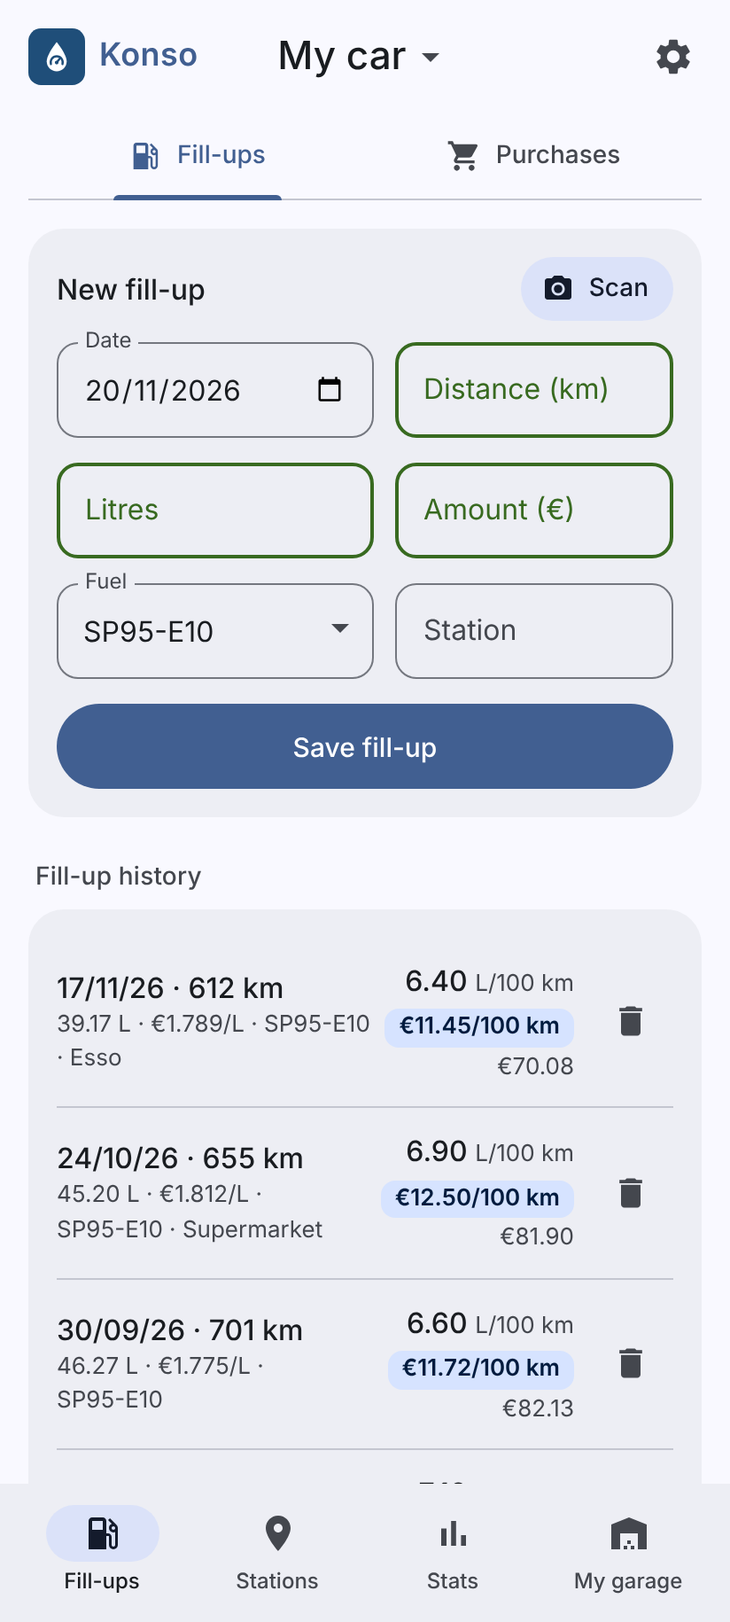
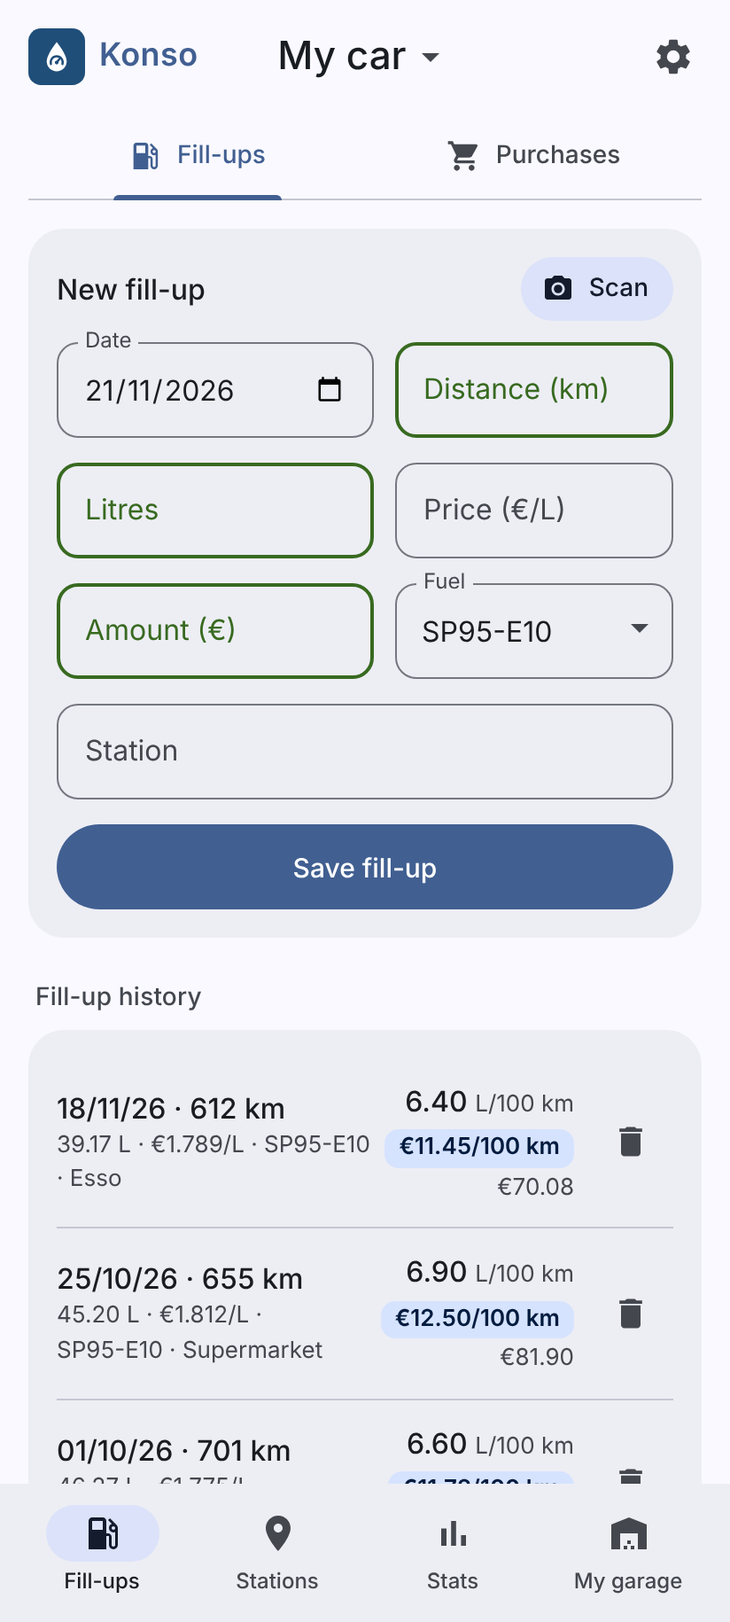
Version 2.20: price per litre field, guided tour before the folder [release] (#35)
- Fill-up form: new price per litre field (#fp); with two of litres / price /
  amount the third is worked out (fillThird(), fillValue() in app.js); the
  receipt scan fills the price too. Stored data unchanged.
- First launch: the guided tour comes before the backup folder choice (#34).
- Texts and help in the 10 languages, screenshots regenerated.
- versionCode 31, versionName 2.20, NEWS 2.20, changelogs/31.txt.

Claude-Session: https://claude.ai/code/session_01Fn4kayjuzW8mUexRkg5oAN

diff --git a/app/src/main/assets/www/i18n.js b/app/src/main/assets/www/i18n.js
@@ -80,6 +80,8 @@
     news_new: "Nouveau",
     news_better: "Amélioré",
     news_fix: "Corrigé",
+    news_220_1: "Nouveau champ Prix au litre : avec deux des trois (litres, prix, montant), le troisième se calcule. Le scan du ticket le remplit aussi.",
+    news_220_2: "Au premier lancement, la visite guidée arrive tout de suite, avant le choix du dossier de sauvegarde.",
     news_219_1: "Les achats se notent maintenant dans l'onglet Pleins, à côté des pleins.",
     news_219_2: "Mon garage : touche une voiture pour la suivre partout, son crayon pour la modifier.",
     news_219_3: "Le calcul « Achat voiture & amortissement » est maintenant dans le Bilan.",
@@ -140,7 +142,7 @@
     car_need_name: "Donne un nom à la voiture", car_dup: "Une voiture porte déjà ce nom",
     new_fill: "Nouveau plein", scan_btn: "Scanner un ticket", scan_short: "Scanner",
     scan_hint: "Lecture sur le téléphone, sans internet. Vérifie toujours les valeurs.",
-    date: "Date", distance: "Distance ({du})", litres: "Litres", amount: "Montant ({cs})",
+    date: "Date", distance: "Distance ({du})", litres: "Litres", amount: "Montant ({cs})", unit_price: "Prix ({cs}/{vu})",
     fuel: "Carburant", station: "Station",
     k_l100: "{cu}", k_e100: "{cs} / 100 {du}", k_el: "{cs} / {vu}",
     add_fill: "Enregistrer le plein",
@@ -203,7 +205,7 @@
     need_fuel: "Choisis le carburant",
     help_title: "Comment ça marche ?",
     help_q1: "Saisir un plein",
-    help_a1: "Fais le plein à ras à chaque fois, puis indique la <b>distance parcourue depuis le plein précédent</b>, les litres et le montant. Astuce : remets le compteur journalier à zéro à chaque plein. La consommation, le coût aux 100 km et le prix au litre se calculent tout seuls. Les champs encore vides (distance, litres, montant) sont entourés en vert. Un champ oublié passe en rouge quand tu enregistres.",
+    help_a1: "Fais le plein à ras à chaque fois, puis indique la <b>distance parcourue depuis le plein précédent</b>, les litres et le montant. Tu peux aussi donner le <b>prix au litre</b> : avec deux des trois (litres, prix, montant), le troisième se calcule. Astuce : remets le compteur journalier à zéro à chaque plein. La consommation, le coût aux 100 km et le prix au litre se calculent tout seuls. Les champs encore vides (distance, litres, montant) sont entourés en vert. Un champ oublié passe en rouge quand tu enregistres.",
     help_q2: "Carburant présélectionné",
     help_a2: "Le carburant proposé est celui de ton <b>dernier plein</b> avec cette voiture : pas besoin de le choisir à chaque fois. Pour une voiture sans plein, c'est son <b>carburant habituel</b> (modifiable dans Mon garage).",
     help_q3: "Scanner un ticket",
@@ -363,6 +365,8 @@
     news_new: "New",
     news_better: "Improved",
     news_fix: "Fixed",
+    news_220_1: "New price per litre field: with two of the three (litres, price, amount), the third is worked out. Receipt scanning fills it too.",
+    news_220_2: "At first launch, the guided tour comes right away, before choosing the backup folder.",
     news_219_1: "Purchases are now noted in the Fill-ups tab, next to the fill-ups.",
     news_219_2: "My garage: tap a car to follow it everywhere, its pencil to edit it.",
     news_219_3: "The “Car purchase & payback” calculation is now in Stats.",
@@ -423,7 +427,7 @@
     car_need_name: "Give the car a name", car_dup: "A car with this name already exists",
     new_fill: "New fill-up", scan_btn: "Scan a receipt", scan_short: "Scan",
     scan_hint: "Read on your phone, no internet. Always check the values.",
-    date: "Date", distance: "Distance ({du})", litres: "Litres", amount: "Amount ({cs})",
+    date: "Date", distance: "Distance ({du})", litres: "Litres", amount: "Amount ({cs})", unit_price: "Price ({cs}/{vu})",
     fuel: "Fuel", station: "Station",
     k_l100: "{cu}", k_e100: "{cs} / 100 {du}", k_el: "{cs} / {vu}",
     add_fill: "Save fill-up",
@@ -486,7 +490,7 @@
     need_fuel: "Choose the fuel type",
     help_title: "How it works",
     help_q1: "Adding a fill-up",
-    help_a1: "Fill the tank to the brim each time, then enter the <b>distance driven since the previous fill-up</b>, the litres and the amount. Tip: reset the trip meter at each fill-up. Consumption, cost per 100 km and price per litre are calculated automatically. Fields still empty (distance, litres, amount) are outlined in green. A missing field turns red when you save.",
+    help_a1: "Fill the tank to the brim each time, then enter the <b>distance driven since the previous fill-up</b>, the litres and the amount. You can also enter the <b>price per litre</b>: with two of the three (litres, price, amount), the third is worked out. Tip: reset the trip meter at each fill-up. Consumption, cost per 100 km and price per litre are calculated automatically. Fields still empty (distance, litres, amount) are outlined in green. A missing field turns red when you save.",
     help_q2: "Preselected fuel",
     help_a2: "The fuel offered is the one from your <b>last fill-up</b> with this car, so you don't have to pick it every time. For a car with no fill-up yet, it's the car's <b>usual fuel</b> (change it in My garage).",
     help_q3: "Scanning a receipt",
@@ -646,6 +650,8 @@
     news_new: "Nuevo",
     news_better: "Mejorado",
     news_fix: "Corregido",
+    news_220_1: "Nuevo campo Precio por litro: con dos de los tres (litros, precio, importe), el tercero se calcula. El escaneo del ticket también lo rellena.",
+    news_220_2: "En el primer inicio, la visita guiada llega enseguida, antes de elegir la carpeta de copia.",
     news_219_1: "Las compras se anotan ahora en la pestaña Repostajes, junto a los repostajes.",
     news_219_2: "Mi garaje: toca un coche para seguirlo en todas partes, su lápiz para editarlo.",
     news_219_3: "El cálculo «Compra de coche y amortización» está ahora en el Resumen.",
@@ -706,7 +712,7 @@
     car_need_name: "Ponle un nombre al coche", car_dup: "Ya existe un coche con ese nombre",
     new_fill: "Nuevo repostaje", scan_btn: "Escanear un ticket", scan_short: "Escanear",
     scan_hint: "Lectura en el teléfono, sin internet. Comprueba siempre los valores.",
-    date: "Fecha", distance: "Distancia ({du})", litres: "Litros", amount: "Importe ({cs})",
+    date: "Fecha", distance: "Distancia ({du})", litres: "Litros", amount: "Importe ({cs})", unit_price: "Precio ({cs}/{vu})",
     fuel: "Combustible", station: "Gasolinera",
     k_l100: "{cu}", k_e100: "{cs} / 100 {du}", k_el: "{cs} / {vu}",
     add_fill: "Guardar el repostaje",
@@ -769,7 +775,7 @@
     need_fuel: "Elige el combustible",
     help_title: "¿Cómo funciona?",
     help_q1: "Registrar un repostaje",
-    help_a1: "Llena el depósito hasta arriba cada vez e indica la <b>distancia recorrida desde el repostaje anterior</b>, los litros y el importe. Consejo: pon a cero el cuentakilómetros parcial en cada repostaje. El consumo, el coste por 100 km y el precio por litro se calculan solos. Los campos aún vacíos (distancia, litros, importe) aparecen rodeados en verde. Un campo olvidado se vuelve rojo al guardar.",
+    help_a1: "Llena el depósito hasta arriba cada vez e indica la <b>distancia recorrida desde el repostaje anterior</b>, los litros y el importe. También puedes indicar el <b>precio por litro</b>: con dos de los tres (litros, precio, importe), el tercero se calcula. Consejo: pon a cero el cuentakilómetros parcial en cada repostaje. El consumo, el coste por 100 km y el precio por litro se calculan solos. Los campos aún vacíos (distancia, litros, importe) aparecen rodeados en verde. Un campo olvidado se vuelve rojo al guardar.",
     help_q2: "Combustible preseleccionado",
     help_a2: "El combustible propuesto es el de tu <b>último repostaje</b> con este coche: no hace falta elegirlo cada vez. Para un coche sin repostajes, es su <b>combustible habitual</b> (se cambia en Mi garaje).",
     help_q3: "Escanear un ticket",
@@ -929,6 +935,8 @@
     news_new: "Neu",
     news_better: "Verbessert",
     news_fix: "Behoben",
+    news_220_1: "Neues Feld Literpreis: Aus zwei der drei Werte (Liter, Preis, Betrag) wird der dritte berechnet. Der Belegscan füllt es auch aus.",
+    news_220_2: "Beim ersten Start kommt die Tour sofort, noch vor der Wahl des Sicherungsordners.",
     news_219_1: "Käufe trägst du jetzt im Tab Tankungen ein, neben den Tankungen.",
     news_219_2: "Meine Garage: Tippe auf ein Auto, um ihm überall zu folgen, auf seinen Stift, um es zu bearbeiten.",
     news_219_3: "Die Rechnung „Autokauf & Amortisation“ ist jetzt in der Auswertung.",
@@ -989,7 +997,7 @@
     car_need_name: "Gib dem Auto einen Namen", car_dup: "Ein Auto mit diesem Namen gibt es schon",
     new_fill: "Neue Tankung", scan_btn: "Beleg scannen", scan_short: "Scannen",
     scan_hint: "Lesen auf dem Handy, ohne Internet. Werte immer prüfen.",
-    date: "Datum", distance: "Strecke ({du})", litres: "Liter", amount: "Betrag ({cs})",
+    date: "Datum", distance: "Strecke ({du})", litres: "Liter", amount: "Betrag ({cs})", unit_price: "Preis ({cs}/{vu})",
     fuel: "Kraftstoff", station: "Tankstelle",
     k_l100: "{cu}", k_e100: "{cs} / 100 {du}", k_el: "{cs} / {vu}",
     add_fill: "Tankung speichern",
@@ -1052,7 +1060,7 @@
     need_fuel: "Kraftstoffart auswählen",
     help_title: "So funktioniert's",
     help_q1: "Tankung erfassen",
-    help_a1: "Immer bis zum Rand volltanken und die <b>seit der letzten Tankung gefahrene Strecke</b>, die Liter und den Betrag eingeben. Tipp: den Tageskilometerzähler bei jeder Tankung zurücksetzen. Verbrauch, Kosten pro 100 km und Literpreis werden automatisch berechnet. Noch leere Felder (Strecke, Liter, Betrag) sind grün umrandet. Ein vergessenes Feld wird beim Speichern rot.",
+    help_a1: "Immer bis zum Rand volltanken und die <b>seit der letzten Tankung gefahrene Strecke</b>, die Liter und den Betrag eingeben. Du kannst auch den <b>Literpreis</b> eingeben: Aus zwei der drei Werte (Liter, Preis, Betrag) wird der dritte berechnet. Tipp: den Tageskilometerzähler bei jeder Tankung zurücksetzen. Verbrauch, Kosten pro 100 km und Literpreis werden automatisch berechnet. Noch leere Felder (Strecke, Liter, Betrag) sind grün umrandet. Ein vergessenes Feld wird beim Speichern rot.",
     help_q2: "Vorausgewählte Kraftstoffart",
     help_a2: "Vorgeschlagen wird die Kraftstoffart der <b>letzten Tankung</b> dieses Autos – sie muss also nicht jedes Mal gewählt werden. Bei einem Auto ohne Tankung ist es seine <b>übliche Kraftstoffart</b> (in Meine Garage änderbar).",
     help_q3: "Beleg scannen",
@@ -1212,6 +1220,8 @@
     news_new: "Nuovo",
     news_better: "Migliorato",
     news_fix: "Corretto",
+    news_220_1: "Nuovo campo Prezzo al litro: con due dei tre (litri, prezzo, importo), il terzo si calcola. Anche la scansione dello scontrino lo compila.",
+    news_220_2: "Al primo avvio, la visita guidata arriva subito, prima della scelta della cartella di backup.",
     news_219_1: "Gli acquisti si annotano ora nella scheda Rifornimenti, accanto ai rifornimenti.",
     news_219_2: "Il mio garage: tocca un'auto per seguirla ovunque, la sua matita per modificarla.",
     news_219_3: "Il calcolo «Acquisto auto e ammortamento» è ora nel Riepilogo.",
@@ -1272,7 +1282,7 @@
     car_need_name: "Dai un nome all'auto", car_dup: "Esiste già un'auto con questo nome",
     new_fill: "Nuovo rifornimento", scan_btn: "Scansiona uno scontrino", scan_short: "Scansiona",
     scan_hint: "Lettura sul telefono, senza internet. Controlla sempre i valori.",
-    date: "Data", distance: "Distanza ({du})", litres: "Litri", amount: "Importo ({cs})",
+    date: "Data", distance: "Distanza ({du})", litres: "Litri", amount: "Importo ({cs})", unit_price: "Prezzo ({cs}/{vu})",
     fuel: "Carburante", station: "Distributore",
     k_l100: "{cu}", k_e100: "{cs} / 100 {du}", k_el: "{cs} / {vu}",
     add_fill: "Salva il rifornimento",
@@ -1335,7 +1345,7 @@
     need_fuel: "Scegli il carburante",
     help_title: "Come funziona?",
     help_q1: "Registrare un rifornimento",
-    help_a1: "Fai sempre il pieno fino all'orlo, poi indica la <b>distanza percorsa dal rifornimento precedente</b>, i litri e l'importo. Consiglio: azzera il contachilometri parziale a ogni pieno. Consumo, costo ogni 100 km e prezzo al litro si calcolano da soli. I campi ancora vuoti (distanza, litri, importo) sono evidenziati in verde. Un campo dimenticato diventa rosso quando salvi.",
+    help_a1: "Fai sempre il pieno fino all'orlo, poi indica la <b>distanza percorsa dal rifornimento precedente</b>, i litri e l'importo. Puoi anche indicare il <b>prezzo al litro</b>: con due dei tre (litri, prezzo, importo), il terzo si calcola. Consiglio: azzera il contachilometri parziale a ogni pieno. Consumo, costo ogni 100 km e prezzo al litro si calcolano da soli. I campi ancora vuoti (distanza, litri, importo) sono evidenziati in verde. Un campo dimenticato diventa rosso quando salvi.",
     help_q2: "Carburante preselezionato",
     help_a2: "Il carburante proposto è quello del tuo <b>ultimo rifornimento</b> con questa auto: non serve sceglierlo ogni volta. Per un'auto senza rifornimenti è il suo <b>carburante abituale</b> (modificabile in Il mio garage).",
     help_q3: "Scansionare uno scontrino",
@@ -1495,6 +1505,8 @@
     news_new: "Novo",
     news_better: "Melhorado",
     news_fix: "Corrigido",
+    news_220_1: "Novo campo Preço por litro: com dois dos três (litros, preço, montante), o terceiro é calculado. A digitalização do talão também o preenche.",
+    news_220_2: "No primeiro arranque, a visita guiada aparece logo, antes de escolher a pasta de cópia.",
     news_219_1: "As compras anotam-se agora no separador Abastecimentos, ao lado dos abastecimentos.",
     news_219_2: "A minha garagem: toca num carro para o seguir em todo o lado, no seu lápis para o editar.",
     news_219_3: "O cálculo «Compra de carro e amortização» está agora no Resumo.",
@@ -1555,7 +1567,7 @@
     car_need_name: "Dá um nome ao carro", car_dup: "Já existe um carro com este nome",
     new_fill: "Novo abastecimento", scan_btn: "Digitalizar um talão", scan_short: "Digitalizar",
     scan_hint: "Leitura no telemóvel, sem internet. Verifica sempre os valores.",
-    date: "Data", distance: "Distância ({du})", litres: "Litros", amount: "Montante ({cs})",
+    date: "Data", distance: "Distância ({du})", litres: "Litros", amount: "Montante ({cs})", unit_price: "Preço ({cs}/{vu})",
     fuel: "Combustível", station: "Posto",
     k_l100: "{cu}", k_e100: "{cs} / 100 {du}", k_el: "{cs} / {vu}",
     add_fill: "Guardar o abastecimento",
@@ -1618,7 +1630,7 @@
     need_fuel: "Escolhe o combustível",
     help_title: "Como funciona?",
     help_q1: "Registar um abastecimento",
-    help_a1: "Enche sempre o depósito até acima e indica a <b>distância percorrida desde o abastecimento anterior</b>, os litros e o montante. Dica: põe o conta-quilómetros parcial a zero em cada abastecimento. O consumo, o custo aos 100 km e o preço por litro são calculados automaticamente. Os campos ainda vazios (distância, litros, valor) aparecem contornados a verde. Um campo esquecido fica vermelho quando guardas.",
+    help_a1: "Enche sempre o depósito até acima e indica a <b>distância percorrida desde o abastecimento anterior</b>, os litros e o montante. Também podes indicar o <b>preço por litro</b>: com dois dos três (litros, preço, montante), o terceiro é calculado. Dica: põe o conta-quilómetros parcial a zero em cada abastecimento. O consumo, o custo aos 100 km e o preço por litro são calculados automaticamente. Os campos ainda vazios (distância, litros, valor) aparecem contornados a verde. Um campo esquecido fica vermelho quando guardas.",
     help_q2: "Combustível pré-selecionado",
     help_a2: "O combustível proposto é o do teu <b>último abastecimento</b> com este carro: não é preciso escolhê-lo de cada vez. Para um carro sem abastecimentos, é o seu <b>combustível habitual</b> (altera-se em A minha garagem).",
     help_q3: "Digitalizar um talão",
@@ -1778,6 +1790,8 @@
     news_new: "Nieuw",
     news_better: "Verbeterd",
     news_fix: "Opgelost",
+    news_220_1: "Nieuw veld Literprijs: met twee van de drie (liters, prijs, bedrag) wordt de derde berekend. Het scannen van het bonnetje vult het ook in.",
+    news_220_2: "Bij de eerste start komt de rondleiding meteen, vóór het kiezen van de back-upmap.",
     news_219_1: "Aankopen noteer je nu in het tabblad Tankbeurten, naast de tankbeurten.",
     news_219_2: "Mijn garage: tik op een auto om hem overal te volgen, op zijn potlood om hem te bewerken.",
     news_219_3: "De berekening „Auto kopen & terugverdientijd” staat nu in het Overzicht.",
@@ -1838,7 +1852,7 @@
     car_need_name: "Geef de auto een naam", car_dup: "Er bestaat al een auto met deze naam",
     new_fill: "Nieuwe tankbeurt", scan_btn: "Bonnetje scannen", scan_short: "Scannen",
     scan_hint: "Wordt op de telefoon gelezen, zonder internet. Controleer altijd de waarden.",
-    date: "Datum", distance: "Afstand ({du})", litres: "Liters", amount: "Bedrag ({cs})",
+    date: "Datum", distance: "Afstand ({du})", litres: "Liters", amount: "Bedrag ({cs})", unit_price: "Prijs ({cs}/{vu})",
     fuel: "Brandstof", station: "Tankstation",
     k_l100: "{cu}", k_e100: "{cs} / 100 {du}", k_el: "{cs} / {vu}",
     add_fill: "Tankbeurt opslaan",
@@ -1901,7 +1915,7 @@
     need_fuel: "Kies de brandstof",
     help_title: "Hoe werkt het?",
     help_q1: "Een tankbeurt invoeren",
-    help_a1: "Tank telkens helemaal vol en vul de <b>afstand sinds de vorige tankbeurt</b>, de liters en het bedrag in. Tip: zet de dagteller bij elke tankbeurt op nul. Verbruik, kosten per 100 km en literprijs worden automatisch berekend. Velden die nog leeg zijn (afstand, liters, bedrag) zijn groen omlijnd. Een vergeten veld wordt rood als je opslaat.",
+    help_a1: "Tank telkens helemaal vol en vul de <b>afstand sinds de vorige tankbeurt</b>, de liters en het bedrag in. Je kunt ook de <b>literprijs</b> invullen: met twee van de drie (liters, prijs, bedrag) wordt de derde berekend. Tip: zet de dagteller bij elke tankbeurt op nul. Verbruik, kosten per 100 km en literprijs worden automatisch berekend. Velden die nog leeg zijn (afstand, liters, bedrag) zijn groen omlijnd. Een vergeten veld wordt rood als je opslaat.",
     help_q2: "Vooraf gekozen brandstof",
     help_a2: "De voorgestelde brandstof is die van je <b>laatste tankbeurt</b> met deze auto: je hoeft hem dus niet elke keer te kiezen. Voor een auto zonder tankbeurten is het de <b>gebruikelijke brandstof</b> (te wijzigen in Mijn garage).",
     help_q3: "Een bonnetje scannen",
@@ -2061,6 +2075,8 @@
     news_new: "Nowe",
     news_better: "Ulepszone",
     news_fix: "Poprawione",
+    news_220_1: "Nowe pole Cena za litr: z dwóch z trzech wartości (litry, cena, kwota) trzecia liczy się sama. Skanowanie paragonu też je wypełnia.",
+    news_220_2: "Przy pierwszym uruchomieniu przewodnik pojawia się od razu, przed wyborem folderu kopii.",
     news_219_1: "Zakupy zapisujesz teraz na karcie Tankowania, obok tankowań.",
     news_219_2: "Mój garaż: dotknij auta, aby śledzić je wszędzie, jego ołówka, aby je edytować.",
     news_219_3: "Obliczenie „Zakup auta i zwrot kosztów” jest teraz w Podsumowaniu.",
@@ -2121,7 +2137,7 @@
     car_need_name: "Nadaj autu nazwę", car_dup: "Auto o tej nazwie już istnieje",
     new_fill: "Nowe tankowanie", scan_btn: "Zeskanuj paragon", scan_short: "Skanuj",
     scan_hint: "Odczyt na telefonie, bez internetu. Zawsze sprawdź wartości.",
-    date: "Data", distance: "Dystans ({du})", litres: "Litry", amount: "Kwota ({cs})",
+    date: "Data", distance: "Dystans ({du})", litres: "Litry", amount: "Kwota ({cs})", unit_price: "Cena ({cs}/{vu})",
     fuel: "Paliwo", station: "Stacja",
     k_l100: "{cu}", k_e100: "{cs} / 100 {du}", k_el: "{cs} / {vu}",
     add_fill: "Zapisz tankowanie",
@@ -2184,7 +2200,7 @@
     need_fuel: "Wybierz paliwo",
     help_title: "Jak to działa?",
     help_q1: "Dodawanie tankowania",
-    help_a1: "Za każdym razem tankuj do pełna i wpisz <b>dystans przejechany od poprzedniego tankowania</b>, litry i kwotę. Wskazówka: zeruj licznik dzienny przy każdym tankowaniu. Spalanie, koszt na 100 km i cena za litr liczą się same. Pola jeszcze puste (dystans, litry, kwota) są obramowane na zielono. Pominięte pole zmienia kolor na czerwony przy zapisie.",
+    help_a1: "Za każdym razem tankuj do pełna i wpisz <b>dystans przejechany od poprzedniego tankowania</b>, litry i kwotę. Możesz też podać <b>cenę za litr</b>: z dwóch z trzech wartości (litry, cena, kwota) trzecia liczy się sama. Wskazówka: zeruj licznik dzienny przy każdym tankowaniu. Spalanie, koszt na 100 km i cena za litr liczą się same. Pola jeszcze puste (dystans, litry, kwota) są obramowane na zielono. Pominięte pole zmienia kolor na czerwony przy zapisie.",
     help_q2: "Domyślnie wybrane paliwo",
     help_a2: "Proponowane jest paliwo z <b>ostatniego tankowania</b> tego auta, więc nie trzeba go wybierać za każdym razem. Dla auta bez tankowań to jego <b>zwykłe paliwo</b> (można je zmienić w zakładce Mój garaż).",
     help_q3: "Skanowanie paragonu",
@@ -2344,6 +2360,8 @@
     news_new: "Yeni",
     news_better: "İyileştirildi",
     news_fix: "Düzeltildi",
+    news_220_1: "Yeni Litre fiyatı alanı: üçünden ikisiyle (litre, fiyat, tutar) üçüncüsü hesaplanır. Fiş taraması da onu doldurur.",
+    news_220_2: "İlk açılışta rehberli tur, yedek klasörü seçilmeden hemen önce gelir.",
     news_219_1: "Alışverişler artık Yakıt alımları sekmesinde, yakıt alımlarının yanında not ediliyor.",
     news_219_2: "Garajım: bir arabayı her yerde izlemek için ona, düzenlemek için kalemine dokun.",
     news_219_3: "“Araba alımı ve amortisman” hesabı artık Özet'te.",
@@ -2404,7 +2422,7 @@
     car_need_name: "Arabaya bir ad ver", car_dup: "Bu adda bir araba zaten var",
     new_fill: "Yeni yakıt alımı", scan_btn: "Fiş tara", scan_short: "Tara",
     scan_hint: "Telefonda okunur, internet gerekmez. Değerleri her zaman kontrol et.",
-    date: "Tarih", distance: "Mesafe ({du})", litres: "Litre", amount: "Tutar ({cs})",
+    date: "Tarih", distance: "Mesafe ({du})", litres: "Litre", amount: "Tutar ({cs})", unit_price: "Fiyat ({cs}/{vu})",
     fuel: "Yakıt", station: "İstasyon",
     k_l100: "{cu}", k_e100: "{cs} / 100 {du}", k_el: "{cs} / {vu}",
     add_fill: "Yakıt alımını kaydet",
@@ -2467,7 +2485,7 @@
     need_fuel: "Yakıt türünü seç",
     help_title: "Nasıl çalışır?",
     help_q1: "Yakıt alımı ekleme",
-    help_a1: "Her seferinde depoyu tam doldur, sonra <b>önceki yakıt alımından beri gidilen mesafeyi</b>, litreyi ve tutarı gir. İpucu: her yakıt alımında günlük kilometre sayacını sıfırla. Tüketim, 100 km maliyeti ve litre fiyatı otomatik hesaplanır. Henüz boş olan alanlar (mesafe, litre, tutar) yeşil çerçevelidir. Unutulan bir alan kaydederken kırmızıya döner.",
+    help_a1: "Her seferinde depoyu tam doldur, sonra <b>önceki yakıt alımından beri gidilen mesafeyi</b>, litreyi ve tutarı gir. <b>Litre fiyatını</b> da girebilirsin: üçünden ikisiyle (litre, fiyat, tutar) üçüncüsü hesaplanır. İpucu: her yakıt alımında günlük kilometre sayacını sıfırla. Tüketim, 100 km maliyeti ve litre fiyatı otomatik hesaplanır. Henüz boş olan alanlar (mesafe, litre, tutar) yeşil çerçevelidir. Unutulan bir alan kaydederken kırmızıya döner.",
     help_q2: "Önceden seçili yakıt",
     help_a2: "Önerilen yakıt, bu arabayla yaptığın <b>son yakıt alımındaki</b> yakıttır; her seferinde seçmen gerekmez. Henüz yakıt alımı olmayan bir arabada, arabanın <b>genelde kullanılan yakıtı</b> seçilir (Garajım sekmesinden değiştirilebilir).",
     help_q3: "Fiş tarama",
@@ -2627,6 +2645,8 @@
     news_new: "Nou",
     news_better: "Îmbunătățit",
     news_fix: "Corectat",
+    news_220_1: "Câmp nou Preț pe litru: din două dintre cele trei (litri, preț, sumă), a treia se calculează. Scanarea bonului îl completează și ea.",
+    news_220_2: "La prima pornire, turul ghidat apare imediat, înainte de alegerea dosarului de salvare.",
     news_219_1: "Achizițiile se notează acum în fila Alimentări, lângă alimentări.",
     news_219_2: "Garajul meu: atinge o mașină pentru a o urmări peste tot, creionul ei pentru a o modifica.",
     news_219_3: "Calculul „Cumpărare mașină și amortizare” este acum în Rezumat.",
@@ -2687,7 +2707,7 @@
     car_need_name: "Dă un nume mașinii", car_dup: "Există deja o mașină cu acest nume",
     new_fill: "Alimentare nouă", scan_btn: "Scanează un bon", scan_short: "Scanează",
     scan_hint: "Citire pe telefon, fără internet. Verifică mereu valorile.",
-    date: "Data", distance: "Distanța ({du})", litres: "Litri", amount: "Suma ({cs})",
+    date: "Data", distance: "Distanța ({du})", litres: "Litri", amount: "Suma ({cs})", unit_price: "Preț ({cs}/{vu})",
     fuel: "Combustibil", station: "Stație",
     k_l100: "{cu}", k_e100: "{cs} / 100 {du}", k_el: "{cs} / {vu}",
     add_fill: "Salvează alimentarea",
@@ -2750,7 +2770,7 @@
     need_fuel: "Alege combustibilul",
     help_title: "Cum funcționează?",
     help_q1: "Adăugarea unei alimentări",
-    help_a1: "Fă plinul complet de fiecare dată, apoi completează <b>distanța parcursă de la alimentarea precedentă</b>, litrii și suma. Sfat: resetează contorul de parcurs la fiecare alimentare. Consumul, costul la 100 km și prețul pe litru se calculează automat. Câmpurile încă goale (distanța, litri, suma) sunt încadrate cu verde. Un câmp uitat devine roșu când salvezi.",
+    help_a1: "Fă plinul complet de fiecare dată, apoi completează <b>distanța parcursă de la alimentarea precedentă</b>, litrii și suma. Poți introduce și <b>prețul pe litru</b>: din două dintre cele trei (litri, preț, sumă), a treia se calculează. Sfat: resetează contorul de parcurs la fiecare alimentare. Consumul, costul la 100 km și prețul pe litru se calculează automat. Câmpurile încă goale (distanța, litri, suma) sunt încadrate cu verde. Un câmp uitat devine roșu când salvezi.",
     help_q2: "Combustibil preselectat",
     help_a2: "Combustibilul propus este cel de la <b>ultima alimentare</b> cu această mașină, deci nu trebuie ales de fiecare dată. Pentru o mașină fără alimentări, este <b>combustibilul obișnuit</b> al mașinii (se schimbă în Garajul meu).",
     help_q3: "Scanarea unui bon",

diff --git a/app/src/main/assets/www/app.js b/app/src/main/assets/www/app.js
@@ -1083,6 +1083,7 @@ $('sv-import').onclick = () => {
 // (news_<version>_<n> in i18n.js). Before each release, add its version at the top of NEWS with
 // its texts in the 10 languages, and its date.
 const NEWS = [
+  { v: '2.20', d: '2026-11-23', items: [['new', 'news_220_1'], ['fix', 'news_220_2']] },
   {
     v: '2.19',
     d: '2026-11-20',
@@ -1492,7 +1493,9 @@ function initScan() {
       const { best: r, bestText } = await Promise.race([work(), stalled]);
       if (r.date) $('fd').value = r.date;
       if (r.litres) $('fl').value = Math.round(vol(r.litres) * 100) / 100; // receipts are in litres
+      if (r.prix) $('fp').value = Math.round((r.prix / vol(1)) * 1000) / 1000; // per litre -> per gallon
       if (r.montant) $('fe').value = r.montant;
+      fillScanned();
       if (r.station) $('fs').value = r.station.slice(0, 80);
       const fuelOk = !!r.carburant && FUELV.includes(r.carburant);
       tried = false;
@@ -1592,6 +1595,52 @@ $('fc').onclick = () =>
     },
   });
 ['fk', 'fl', 'fe'].forEach(i => $(i).addEventListener('input', live));
+// Litres, price per litre and amount: two of them give the third, so a receipt can be typed in the
+// order it reads (e.g. litres and price, or amount and price). fillOrder: the fields of the three
+// typed by the user, the last typed last; fillAuto: the field worked out by the app ('' = none).
+const FILL3 = ['fl', 'fp', 'fe'];
+let fillOrder = [],
+  fillAuto = '';
+// Value of the field id (fl, fp or fe) worked out from the two others, rounded like a receipt:
+// 2 decimals for litres and amount, 3 for the price.
+function fillValue(id) {
+  const l = +$('fl').value,
+    p = +$('fp').value,
+    e = +$('fe').value;
+  if (id === 'fe') return Math.round(l * p * 100) / 100;
+  if (id === 'fl') return Math.round((e / p) * 100) / 100;
+  return Math.round((e / l) * 1000) / 1000;
+}
+// After the user typed in field id: the two fields typed last (with a value) give the third. When
+// fewer than two are typed, a value worked out earlier no longer holds and is emptied.
+function fillThird(id) {
+  fillOrder = fillOrder.filter(x => x !== id).concat(id);
+  if (fillAuto === id) fillAuto = '';
+  const typed = fillOrder.filter(x => +$(x).value > 0).slice(-2);
+  if (typed.length < 2) {
+    if (fillAuto) $(fillAuto).value = '';
+    fillAuto = '';
+  } else {
+    fillAuto = FILL3.find(x => !typed.includes(x));
+    fillOrder = fillOrder.filter(x => x !== fillAuto); // no longer the user's value
+    $(fillAuto).value = fillValue(fillAuto);
+  }
+  live();
+  marks();
+}
+FILL3.forEach(i => $(i).addEventListener('input', () => fillThird(i)));
+// After a receipt scan: the values read count as typed by the user, litres and amount last, so
+// correcting one of them later works out the price again (and correcting the price, the litres).
+function fillScanned() {
+  fillOrder = ['fp', 'fl', 'fe'].filter(x => +$(x).value > 0);
+  fillAuto = '';
+}
+// Empty the three fields and forget who typed what (after a fill-up is saved).
+function fillReset() {
+  FILL3.forEach(i => ($(i).value = ''));
+  fillOrder = [];
+  fillAuto = '';
+}
 // Preselected fuel: the one of the car's last fill-up, otherwise its usual fuel.
 // After a receipt whose fuel type could not be read, nothing is preselected: the user must choose
 // (fuelPending = true, the field shows "Choose…").
@@ -1649,7 +1698,8 @@ $('addF').onclick = () => {
     s: $('fs').value.trim(),
   });
   S.fuel.sort((a, b) => b.d.localeCompare(a.d) || b.id - a.id);
-  ['fk', 'fl', 'fe', 'fs'].forEach(i => ($(i).value = ''));
+  ['fk', 'fs'].forEach(i => ($(i).value = ''));
+  fillReset();
   tried = false;
   setFuelPending(false);
   live();

diff --git a/app/src/main/assets/www/index.html b/app/src/main/assets/www/index.html
@@ -113,6 +113,14 @@
                   data-i18n="litres"
                 ></label>
               </div>
+              <!-- price per litre / gallon: with two of litres, price and amount, the third is worked
+                   out (fillThird() in app.js), so a receipt can be typed as it reads -->
+              <div class="f">
+                <input type="number" id="fp" inputmode="decimal" step="0.001" placeholder=" " /><label
+                  for="fp"
+                  data-i18n="unit_price"
+                ></label>
+              </div>
               <div class="f">
                 <input type="number" id="fe" inputmode="decimal" step="0.01" placeholder=" " /><label
                   for="fe"
@@ -123,7 +131,7 @@
                 <button type="button" class="fieldbtn" id="fc"></button
                 ><label data-i18n="fuel"></label>
               </div>
-              <div class="f">
+              <div class="f full">
                 <input type="text" id="fs" placeholder=" " /><label for="fs" data-i18n="station"></label>
               </div>
             </div>
